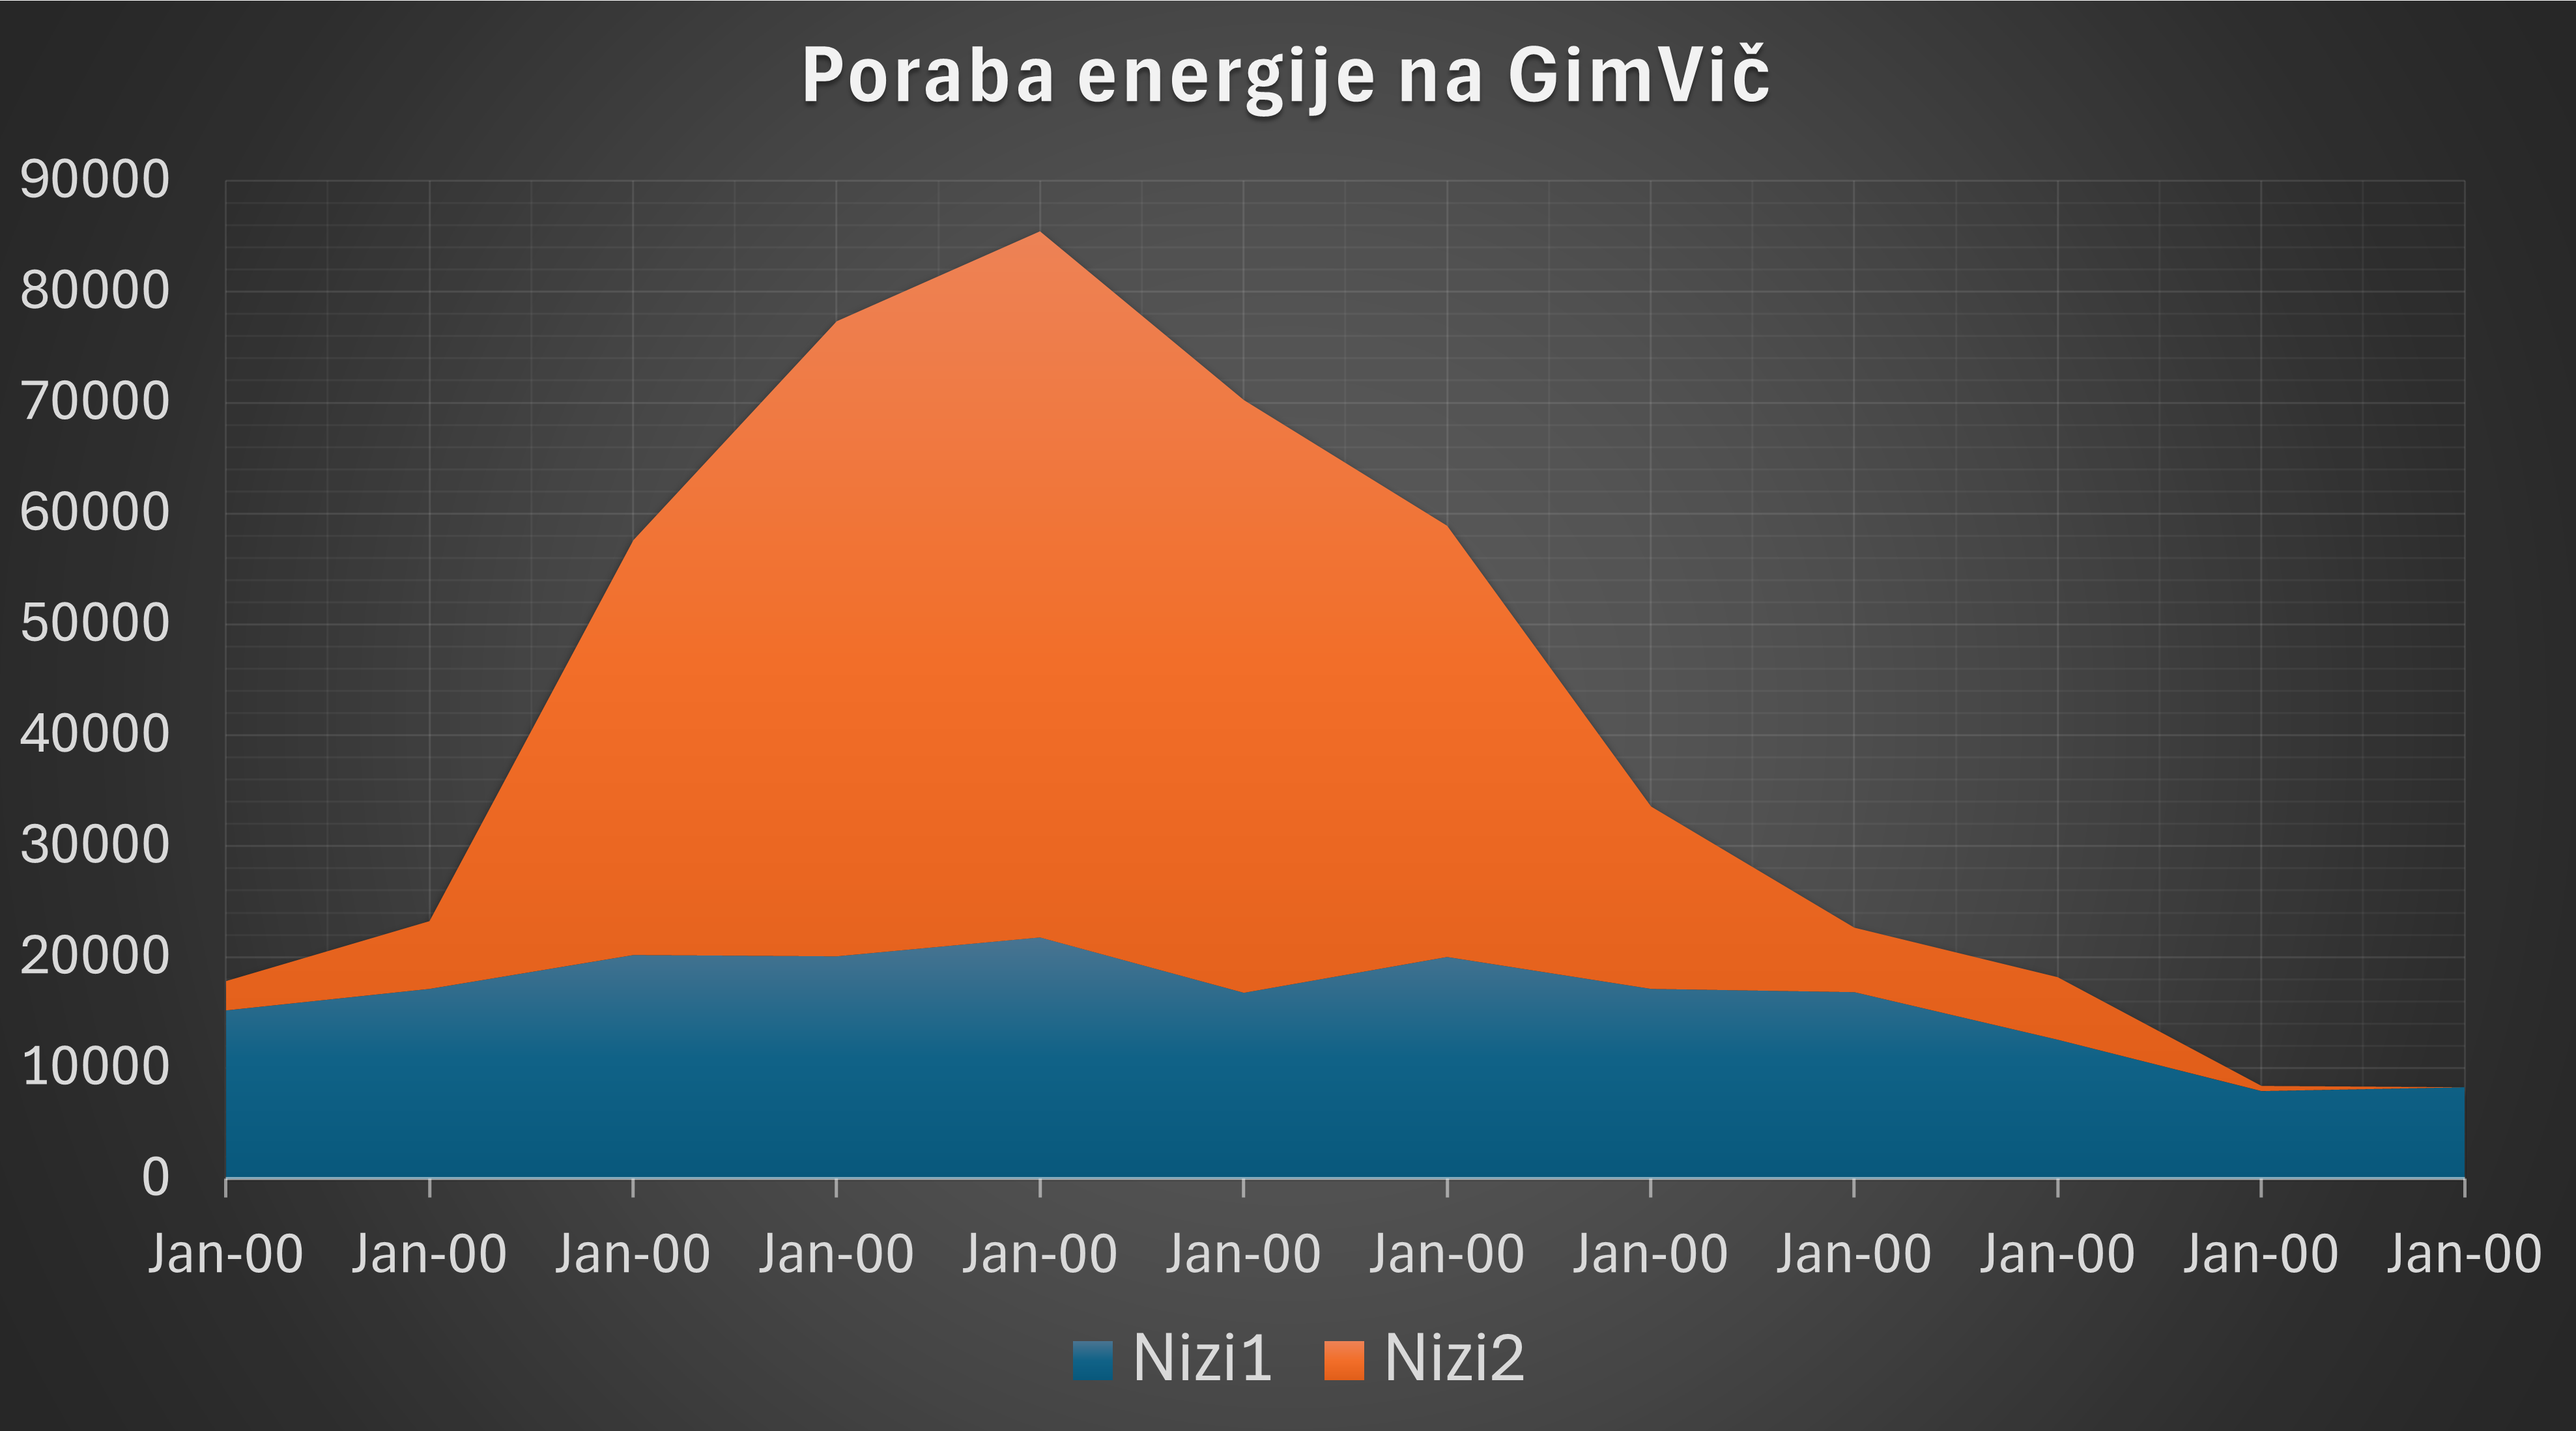
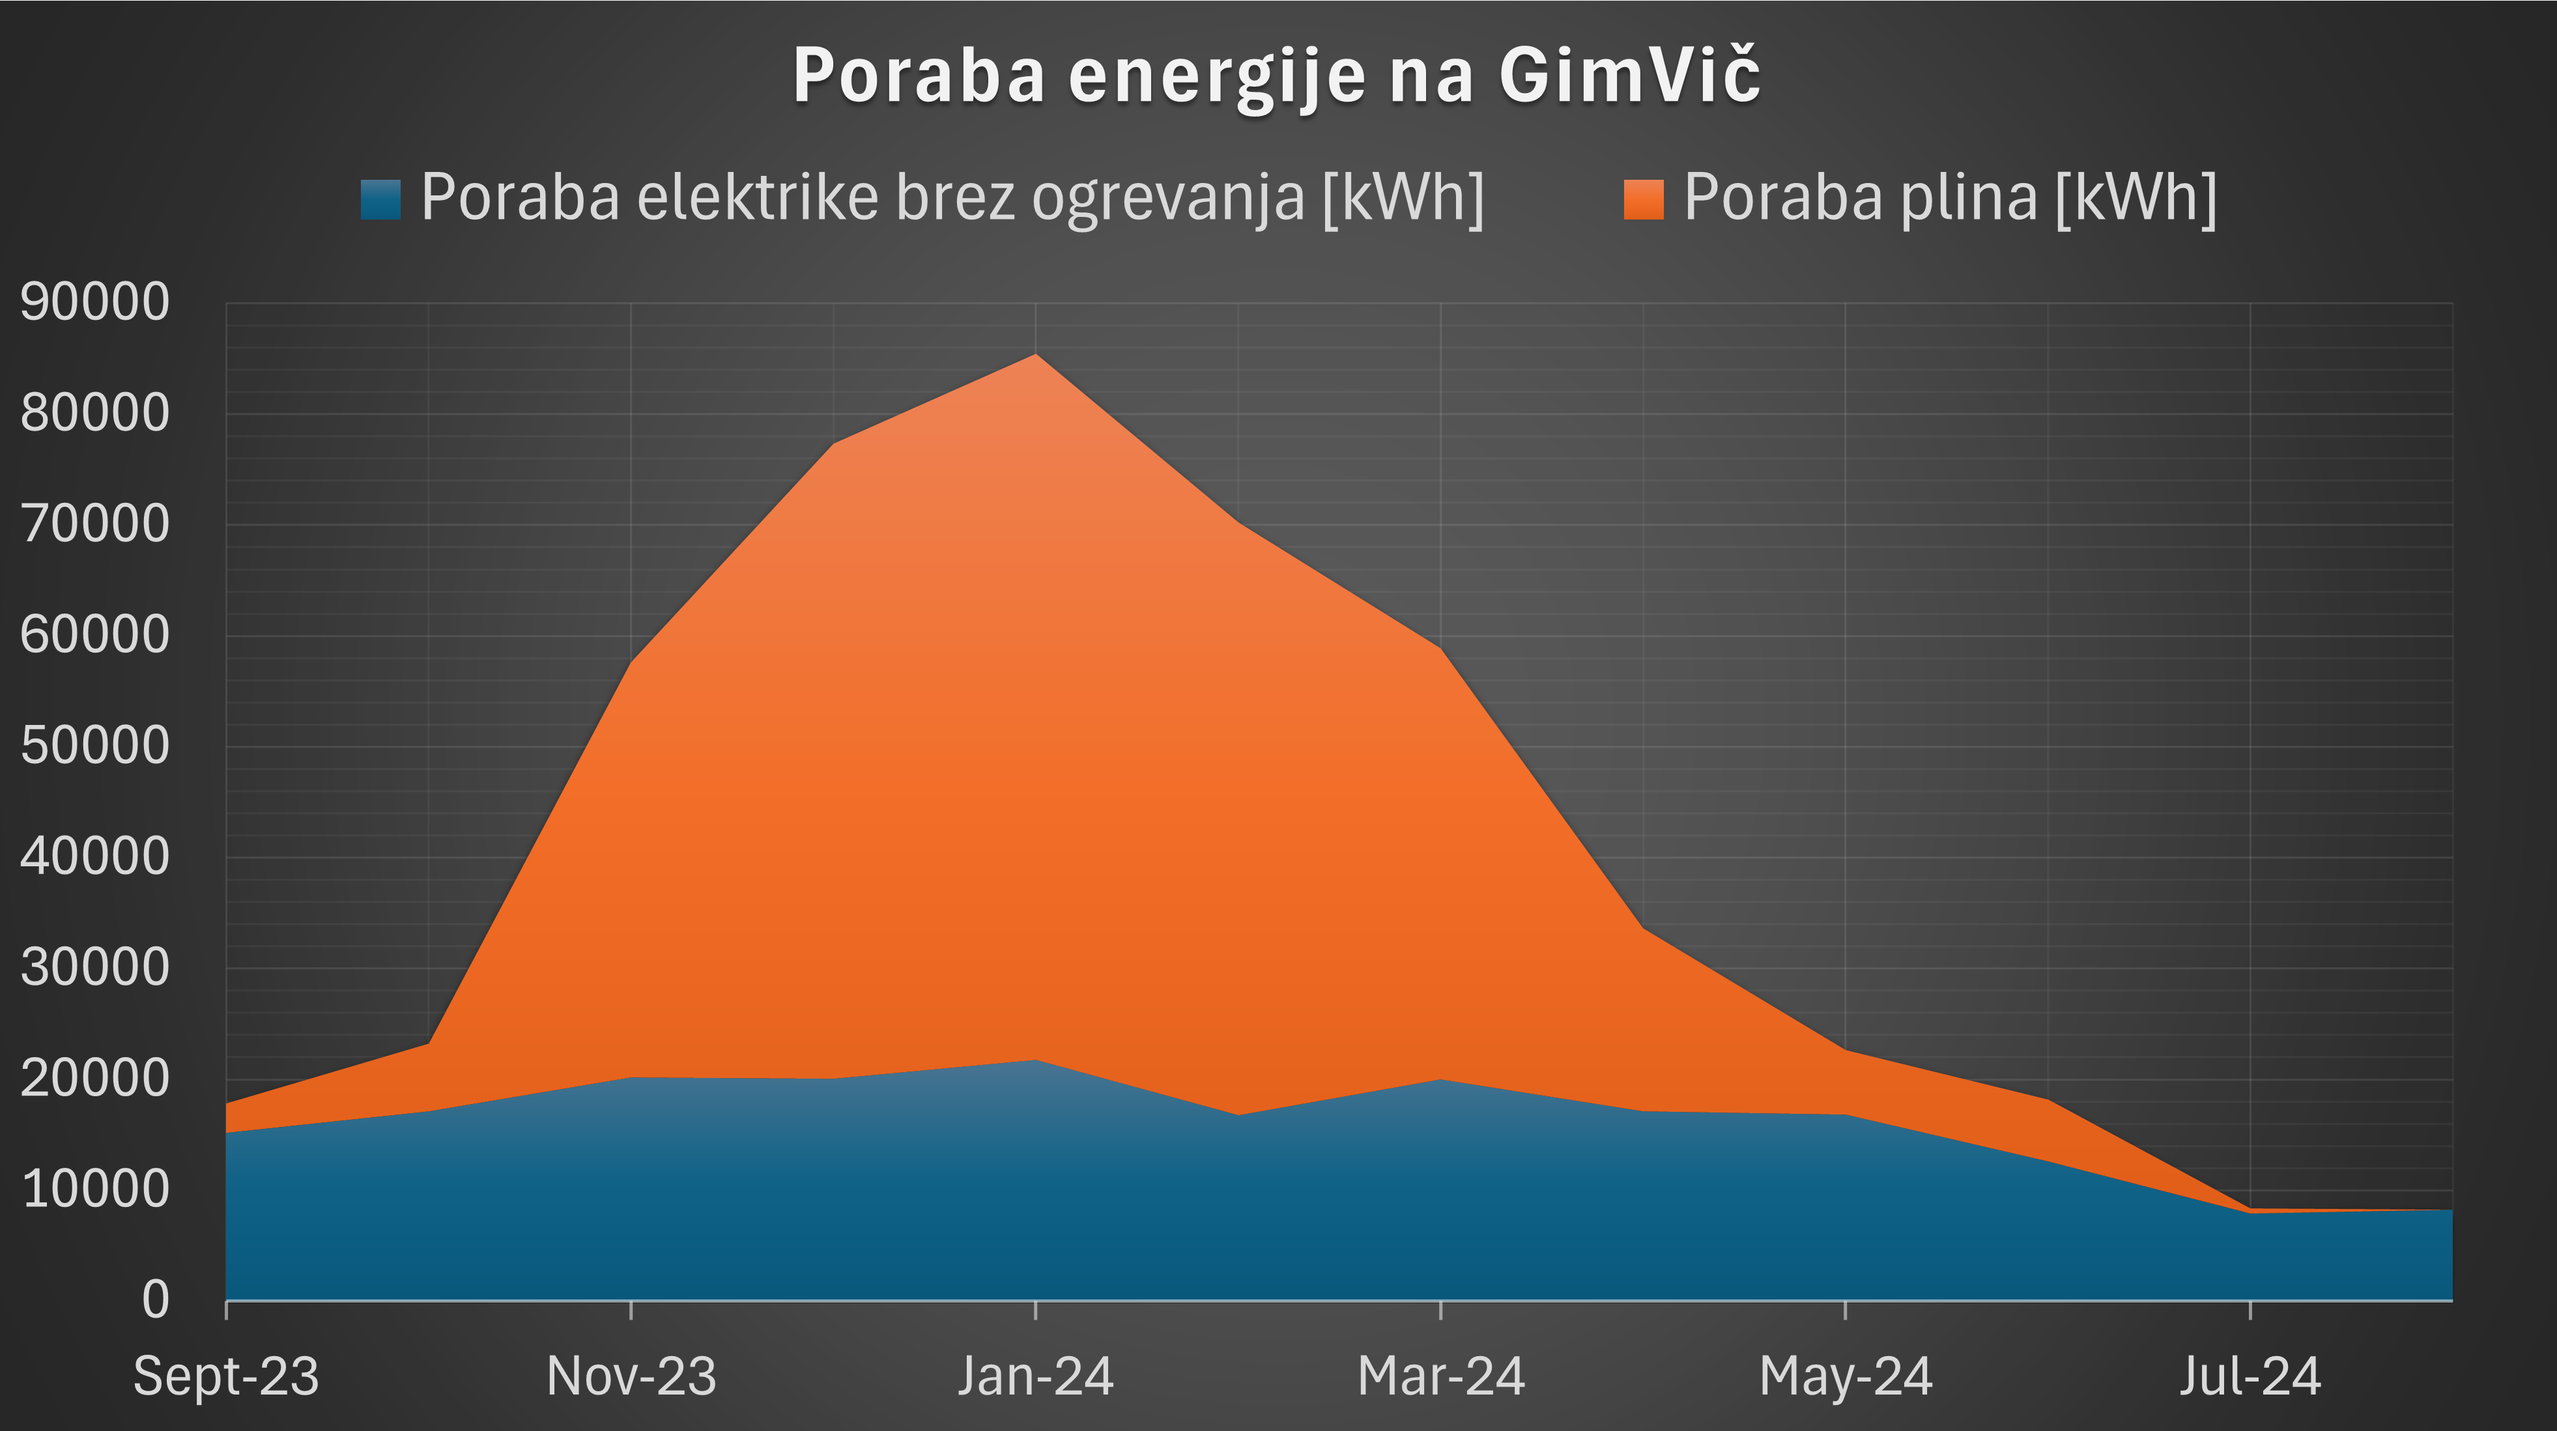
dodal malo contenta in uredil css

diff --git a/viri/energija.html b/viri/energija.html
@@ -5,6 +5,8 @@
     <meta charset="UTF-8">
     <title>Projekt ogljični odtis</title>
     <link href="../css/menu.css" rel="stylesheet">
+    <link href="../css/vsebina.css" rel="stylesheet">
+
 </head>
 
 <body>
@@ -17,7 +19,7 @@
     <section class="vsebina">
         <h1>Kaj sploh je energija?</h1>
         <p>Obstajajo različne definicije energije, vsem pa je skupna ugotovitev: energija je sposobnost sistema in
-            telesa, da opravlja delo. (Vir: https://e-gradiva.golea.si/energija-in-raba-energije/)</p>
+            telesa, da opravlja delo.</p>
 
         <p>Osnovna nota za merjenje energije je joule (1J = 1kgm<sup>2</sup>s<sup>-2</sup>). V gospodinjstvu uporabljamo
             pri obračunu porabljene električne energije enoto <i>kilovatna ura</i> (1 kWh, kar ustreza delu, ki ga
@@ -25,8 +27,7 @@
             J).</p>
 
         <p>Enota za energijo je tudi toe (tona ekvivalenta nafte), ki pomeni količino energije, ki se sprosti s sežigom
-            1 tone surove nafte. Toe se uporablja za prikaz velikih količin energije (1 toe = 41,87 GJ, 1 toe = 11,63
-            MWh).
+            1 tone surove nafte. Toe se uporablja za prikaz velikih količin energije (1 toe = 41,87 GJ = 11,63 MWh).
         </p>
 
         <p>Energijo v vsakdanjem življenju potrebujemo za ohranjanje življenja (energija, ki jo dobimo s kemično
@@ -48,6 +49,11 @@
             izpustov CO<sub>2</sub> povzroči naša uporaba energije.</p>
         <img src="co2_svet.avif" alt="Viri CO2 glede na sektor, svet">
 
+    </section>
+    <section class="vsebina">
+        <h1>Raba energije na Gimnaziji Vič</h1>
+        <p>Najbolje, da vam kar pokažem tale graf:</p>
+        <img src="plin&elektrika.png" alt="Poraba plina in elektrike na GimVič">
     </section>
 
 </body>

diff --git a/css/menu.css b/css/menu.css
@@ -1,23 +1,7 @@
-body {
-    background-color: dodgerblue;
-}
-
-.vsebina {
-    position: absolute;
-    left: 21%;
-    width: 79%;
-    height: 100%;
-    top: 0px;
-}
-
-h1 {
-    font-size: xx-large;
-}
-
 .menu {
     position: fixed;
     left: 0px;
-    background-color: white;
+    background-color: #9D998F;
     width: 20%;
     height: 100%;
     top: 0px;
@@ -33,11 +17,8 @@ h1 {
     display: flex;
     align-items: center;
     justify-content: center;
-    background-color: powderblue;
-    border: 2px solid black;
-    border-radius: 400px;
-    width: 90%;
-    height: 5%;
-    margin-top: 5%;
-    margin-left: 4%;
+    background-color: #716F6A;
+    border-top: 2px solid #9D998F;
+    height: 7%;
 }
+

diff --git a/index.html b/index.html
@@ -5,6 +5,7 @@
     <meta charset="UTF-8">
     <title>Projekt ogljični odtis</title>
     <link href="css/menu.css" rel="stylesheet">
+    <link href="css/vsebina.css" rel="stylesheet">
 </head>
 
 <body>
@@ -19,7 +20,7 @@
         <p>V projektu Erasmus+ ...</p>
 
         <p>Ta slika bi morala razložiti vse ostalo:</p>
-        <img src="molekula.png" alt="Dimenzije molekule co2" style="max-width: 80%; border-radius: 50px;">
+        <img src="molekula.png" alt="Dimenzije molekule co2">
     </section>
 
 </body>

diff --git a/css/vsebina.css b/css/vsebina.css
@@ -1,0 +1,25 @@
+body {
+    background-color: rgb(244, 236, 216);
+    font-size: larger;
+}
+
+
+.vsebina {
+    position: relative;
+    left: 20%;
+    width: 76%;
+    margin-top: 0px;
+    padding-left: 1%;
+    padding-right: 4%;
+}
+
+
+h1 {
+    font-size: xx-large;
+}
+
+@media screen {
+    img {
+        max-width: 50%;
+    }
+}

diff --git a/viri/viri_co2.html b/viri/viri_co2.html
@@ -5,6 +5,7 @@
     <meta charset="UTF-8">
     <title>Viri ogljikovega dioksida</title>
     <link href="../css/menu.css" rel="stylesheet">
+    <link href="../css/vsebina.css" rel="stylesheet">
 </head>
 
 <body>

diff --git a/viri.html b/viri.html
@@ -5,6 +5,7 @@
     <meta charset="UTF-8">
     <title>Projekt ogljični odtis</title>
     <link href="css/menu.css" rel="stylesheet">
+    <link href="css/vsebina.css" rel="stylesheet">
 </head>
 
 <body>
